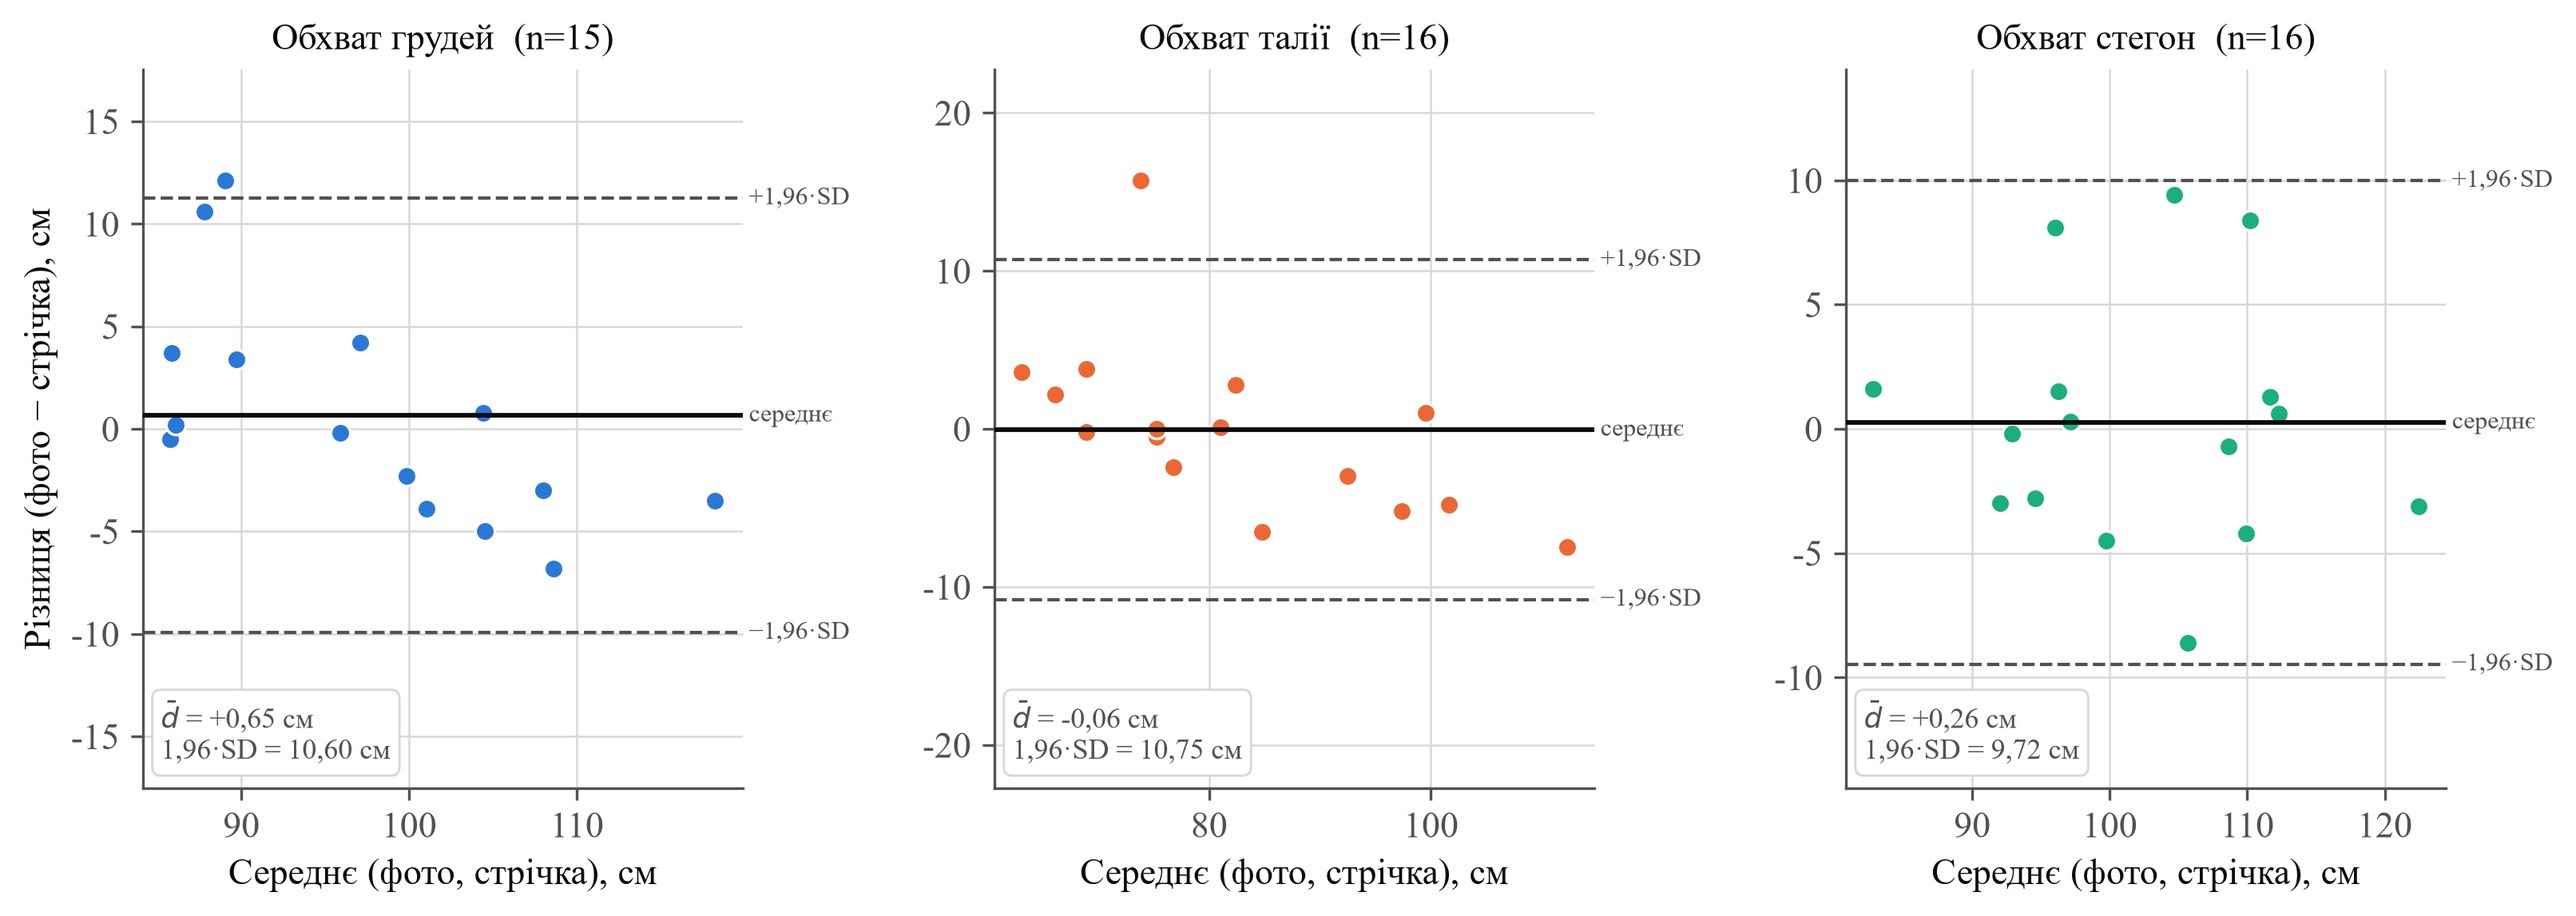
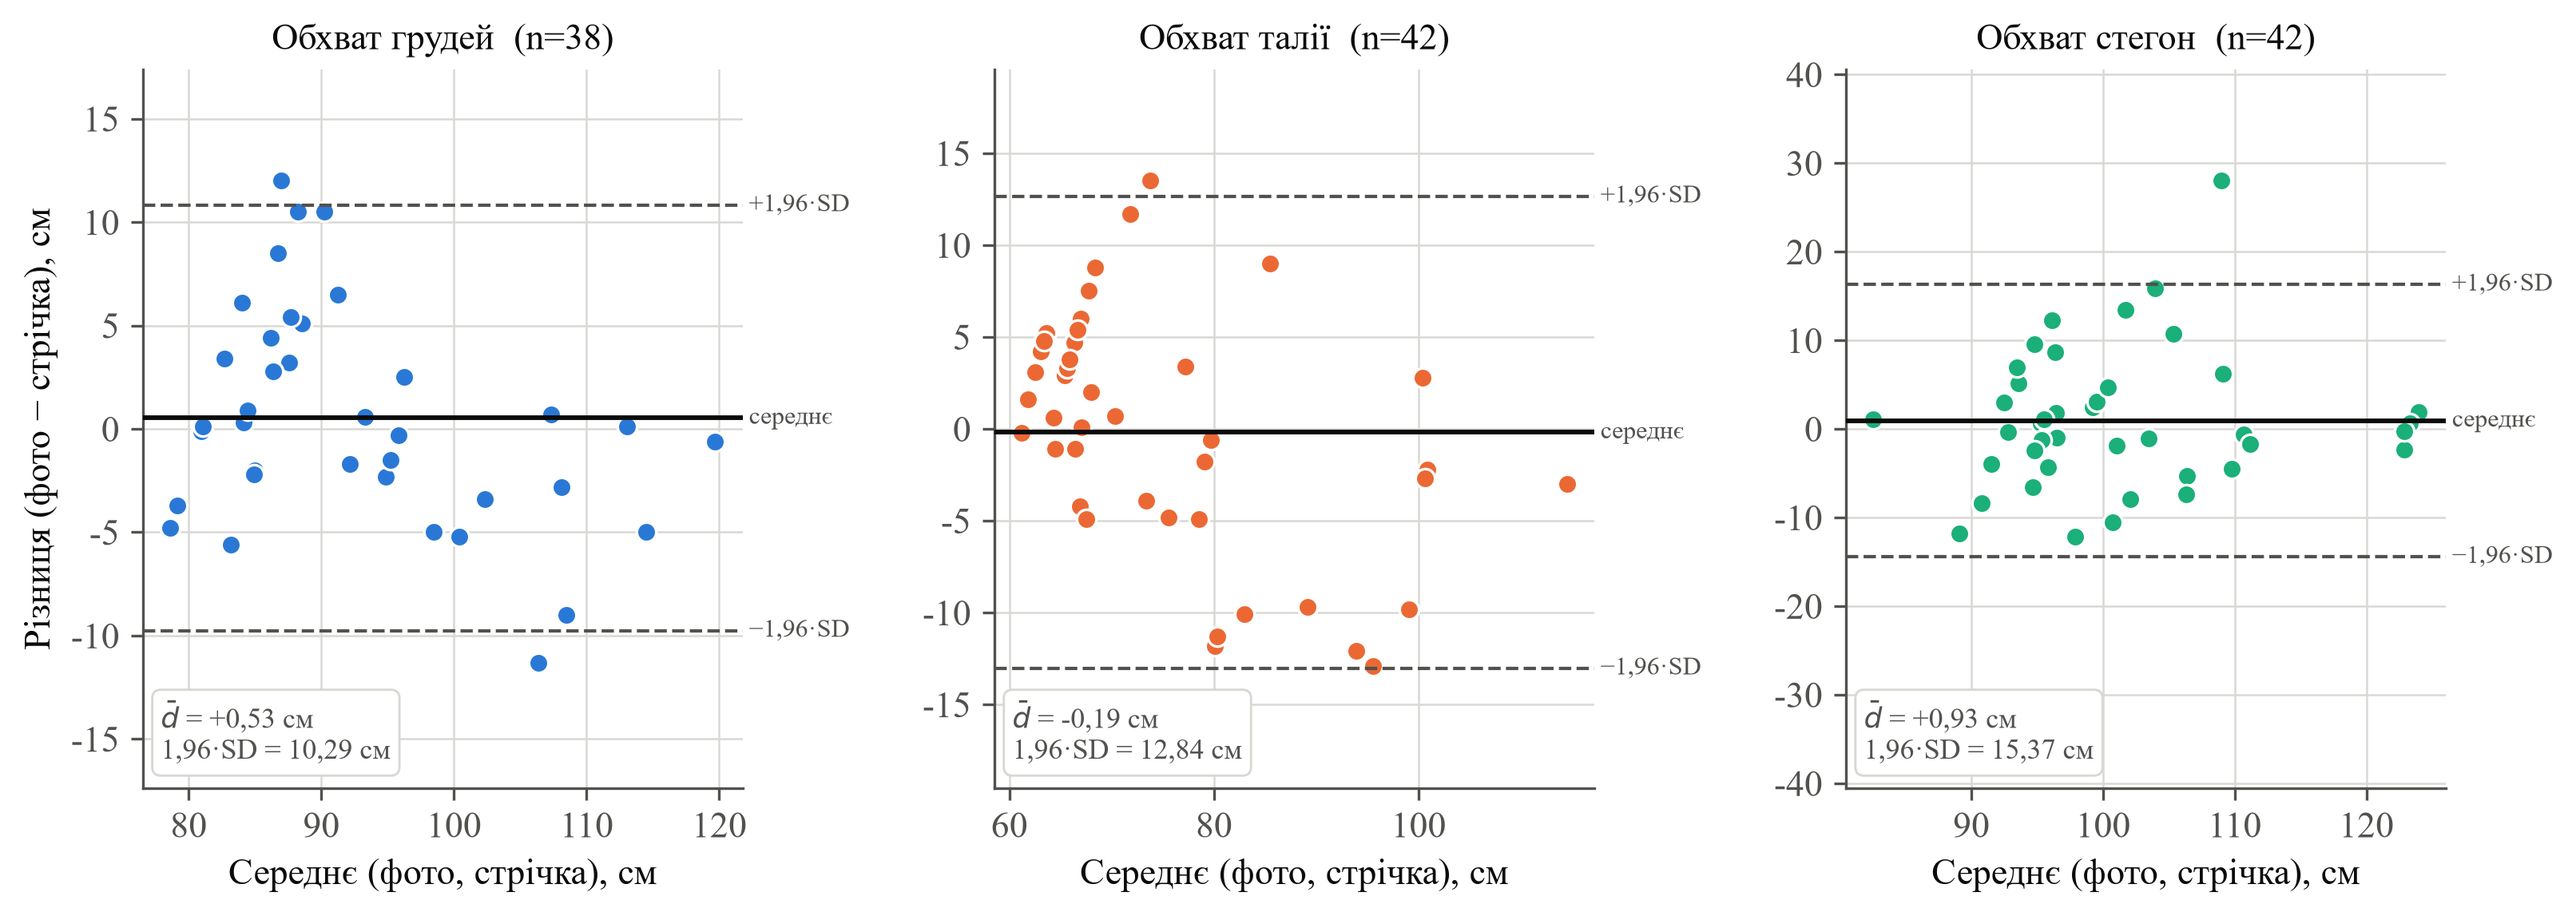
paper: regenerate chapter-3 figures and tables on the 43-subject corpus
The GT corpus grew from 16 to 43 subjects during the 09-22 session (564 scored
observations, 14 measurements), so every number generated at 15:23 was superseded
three hours later. Re-ran pointsx-eval --grid on the clean tree at 0bf7651 and
regenerated from that.

- Overall MAE 3,32 -> 3,08 cm, bias +0,31, n=564. Bootstrap CIs are visibly tighter
  at 43 subjects (chest [3,03; 5,10] vs [2,41; 5,87]).
- shoulder_slope_width, the form field added on 09-21, now has 26 GT values and is the
  most accurate measurement in the set: MAE 1,12 cm. Its bias (-0,73) says the 0.8
  coefficient in measurements.py is low — the data implies ~0,856.
- Hips and waist got worse (5,60 / 5,20 vs 3,64 / 3,71): the corpus now carries people
  in their own clothes, not just the fitted-suit pairs. That is the honest direction.
- Table 3.1 is now generated from the eval CSV inside build_docx.py rather than pasted,
  so the table and the figures cannot drift apart again.
- The ablation (6,03 -> 3,32) stays on the 16-subject development corpus and now says so
  in the caption, axis label and a preceding paragraph: those five steps are comparable
  to each other because they share data, and mixing them with the current corpus would
  not be. The headline number comes from table 3.1.
- Table 3.4 carries per-measurement values (chest 4,03 / waist 5,20 / hip 5,60) next to
  the aggregate, so the row is comparable with Kim et al. rather than only with itself.

diff --git a/scripts/paper/tables.py b/scripts/paper/tables.py
@@ -36,9 +36,10 @@ for mid, per_sub in by_mid.items():
     items.append((mid, st.fmean(abs(e) for e in errs), st.fmean(errs), lo, hi, len(errs)))
 items.sort(key=lambda t: -t[1])
 
+n_subj = len({r["subject"] for r in rows})
 W("## Таблиця 3.1 — Похибки антропометричних параметрів")
 W("")
-W("Джерело: 16 суб'єктів, 206 парних спостережень «фото ↔ ручна мірка», продукційна")
+W(f"Джерело: {n_subj} суб'єктів, {len(rows)} парних спостережень «фото ↔ ручна мірка», продукційна")
 W("конфігурація (COCO-поза + сегментація + еліпс Рамануджана з каліброваними корекціями).")
 W("95 % довірчий інтервал — бутстреп (5 000 ресемплів) по **суб'єктах**, а не по спостереженнях.")
 W("")
@@ -46,7 +47,7 @@ md([[UK.get(m, m), f(mae), f"[{f(lo)}; {f(hi)}]", f(bias, sign=True), str(n)] fo
    ["Параметр", "MAE, см", "95 % ДІ для MAE", "Bias, см", "n"])
 allerr = [r["err"] for r in rows]
 W(f"**Загалом: MAE = {f(st.fmean(abs(e) for e in allerr))} см, "
-  f"bias = {f(st.fmean(allerr), sign=True)} см, n = {len(allerr)} спостережень (16 суб'єктів).**")
+  f"bias = {f(st.fmean(allerr), sign=True)} см, n = {len(allerr)} спостережень ({n_subj} суб'єктів).**")
 W("")
 
 # ── Table 3.2 — ablation ────────────────────────────────────────────────────
@@ -56,6 +57,10 @@ steps = [("Базова конфігурація", 0), ("+ гейт якості
          ("+ пріор ANSUR II (обхват біцепса)", 3),
          ("+ перефіт корекцій зі схемою leave-one-out", 4)]
 W("## Таблиця 3.2 — Внесок окремих складових методу (абляція)")
+W("")
+W("Абляцію виконано на корпусі етапу розробки (16 суб'єктів, ~206 мірок): кроки порівнянні")
+W("між собою, бо зроблені на однакових даних. Підсумкову точність наведено в таблиці 3.1 на")
+W(f"поточному корпусі ({n_subj} суб'єктів).")
 W("")
 base = led[0]["app"]["summary"]["overall"]["mae"]
 tr = []

diff --git a/scripts/paper/figures.py b/scripts/paper/figures.py
@@ -84,6 +84,7 @@ UK = {
     "neck_base_height": "Висота основи шиї",
     "chest_width_front": "Ширина грудей спереду",
     "back_width_scapular": "Ширина спини",
+    "shoulder_slope_width": "Ширина плечового ската",
     "front_length_to_waist": "Довжина переду до талії",
     "back_length_to_waist": "Довжина спини до талії",
     "leg_length_outer_seam": "Зовнішня довжина ноги",
@@ -133,7 +134,8 @@ def fig_mae(rows):
         items.append((mid, mae, bias, lo, hi, len(errs)))
     items.sort(key=lambda t: t[1])
 
-    fig, axes = plt.subplots(1, 2, figsize=(10.2, 5.4), gridspec_kw={"width_ratios": [1.55, 1]})
+    n_subj = len({r["subject"] for r in rows})
+    fig, axes = plt.subplots(1, 2, figsize=(10.2, 5.8), gridspec_kw={"width_ratios": [1.55, 1]})
     y = np.arange(len(items))
     labels = [f"{UK.get(m, m)}" for m, *_ in items]
 
@@ -146,7 +148,7 @@ def fig_mae(rows):
     for i, t in enumerate(items):
         ax.text(t[4] + 0.12, i, f(t[1]), va="center", fontsize=9.5, color=INK)
     ax.set_yticks(y, labels)
-    ax.set_xlabel("MAE, см  (95 % ДІ, бутстреп по 16 суб'єктах)")
+    ax.set_xlabel(f"MAE, см  (95 % ДІ, бутстреп по {n_subj} суб'єктах)")
     ax.set_xlim(0, max(t[4] for t in items) + 0.9)
     ax.grid(axis="y", visible=False)
     ax.set_title("а) Середня абсолютна похибка", fontsize=11.5, loc="left")
@@ -223,7 +225,7 @@ def fig_ablation():
     for yy, v in zip(y, vals):
         ax.text(v + 0.09, yy, f(v), va="center", fontsize=10, color=INK)
     ax.set_yticks(y, names)
-    ax.set_xlabel("MAE, см (еталонні ручні мірки, 16 суб'єктів)")
+    ax.set_xlabel("MAE, см (корпус етапу розробки: 16 суб'єктів)")
     comma_axis(ax, "x", 0)
     ax.set_xlim(0, max(vals) + 0.8)
     ax.grid(axis="y", visible=False)

diff --git a/docs/figures/tables.md b/docs/figures/tables.md
@@ -1,28 +1,33 @@
 ## Таблиця 3.1 — Похибки антропометричних параметрів
 
-Джерело: 16 суб'єктів, 206 парних спостережень «фото ↔ ручна мірка», продукційна
+Джерело: 43 суб'єктів, 564 парних спостережень «фото ↔ ручна мірка», продукційна
 конфігурація (COCO-поза + сегментація + еліпс Рамануджана з каліброваними корекціями).
 95 % довірчий інтервал — бутстреп (5 000 ресемплів) по **суб'єктах**, а не по спостереженнях.
 
 | Параметр | MAE, см | 95 % ДІ для MAE | Bias, см | n |
 |---|---|---|---|---|
-| Ширина грудей спереду | 4,66 | [2,44; 7,57] | -2,68 | 16 |
-| Обхват грудей | 4,01 | [2,41; 5,87] | +0,65 | 15 |
-| Обхват біцепса | 3,92 | [2,80; 5,24] | +1,36 | 16 |
-| Довжина переду до талії | 3,87 | [2,76; 5,08] | -2,13 | 16 |
-| Обхват талії | 3,71 | [2,07; 5,81] | -0,06 | 16 |
-| Обхват стегон | 3,64 | [2,20; 5,28] | +0,26 | 16 |
-| Внутрішня довжина ноги | 3,40 | [2,27; 4,64] | +0,90 | 16 |
-| Зовнішня довжина ноги | 3,30 | [1,91; 4,88] | +0,94 | 16 |
-| Обхват стегна | 3,21 | [1,94; 4,66] | -0,75 | 16 |
-| Висота основи шиї | 2,71 | [1,64; 3,99] | -0,04 | 16 |
-| Ширина спини | 2,61 | [1,44; 3,93] | +1,84 | 16 |
-| Обхват шиї | 2,19 | [1,45; 3,04] | +1,07 | 15 |
-| Довжина спини до талії | 1,96 | [1,28; 2,68] | -0,26 | 16 |
+| Обхват стегон | 5,60 | [4,06; 7,32] | +0,93 | 42 |
+| Обхват талії | 5,20 | [4,04; 6,45] | -0,19 | 42 |
+| Обхват грудей | 4,03 | [3,03; 5,10] | +0,53 | 38 |
+| Обхват стегна | 3,73 | [2,62; 4,94] | +0,32 | 42 |
+| Зовнішня довжина ноги | 3,29 | [2,39; 4,29] | +0,20 | 40 |
+| Обхват біцепса | 3,21 | [2,70; 3,73] | +1,41 | 43 |
+| Ширина грудей спереду | 3,07 | [2,15; 4,26] | -0,88 | 42 |
+| Ширина спини | 2,49 | [1,86; 3,17] | +1,84 | 43 |
+| Внутрішня довжина ноги | 2,43 | [1,82; 3,11] | +0,64 | 42 |
+| Висота основи шиї | 2,27 | [1,65; 3,01] | -0,39 | 42 |
+| Довжина переду до талії | 2,16 | [1,60; 2,73] | -0,10 | 42 |
+| Обхват шиї | 1,87 | [1,49; 2,31] | -0,06 | 42 |
+| Довжина спини до талії | 1,83 | [1,32; 2,37] | +0,41 | 38 |
+| Ширина плечового ската | 1,12 | [0,85; 1,42] | -0,73 | 26 |
 
-**Загалом: MAE = 3,32 см, bias = +0,08 см, n = 206 спостережень (16 суб'єктів).**
+**Загалом: MAE = 3,08 см, bias = +0,31 см, n = 564 спостережень (43 суб'єктів).**
 
 ## Таблиця 3.2 — Внесок окремих складових методу (абляція)
+
+Абляцію виконано на корпусі етапу розробки (16 суб'єктів, ~206 мірок): кроки порівнянні
+між собою, бо зроблені на однакових даних. Підсумкову точність наведено в таблиці 3.1 на
+поточному корпусі (43 суб'єктів).
 
 | Конфігурація | n мірок | MAE, см | Bias, см | Зниження MAE відносно базової |
 |---|---|---|---|---|
